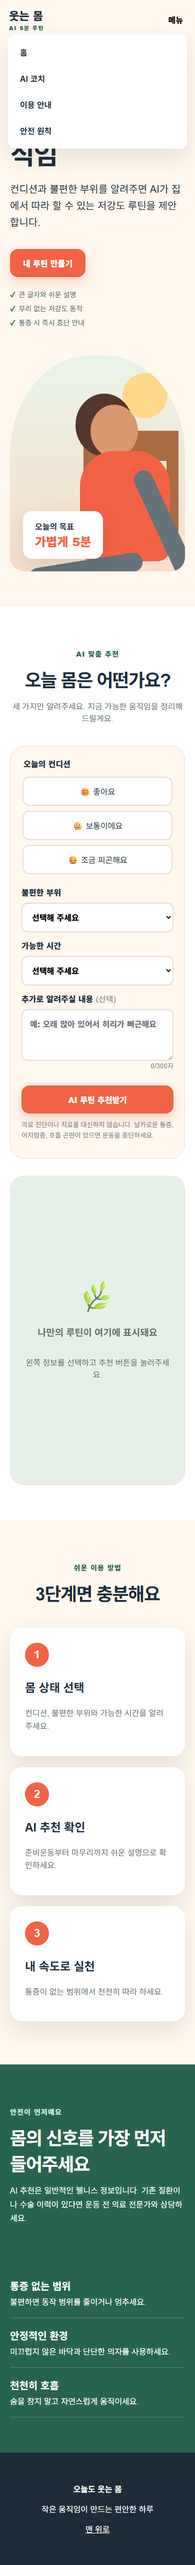
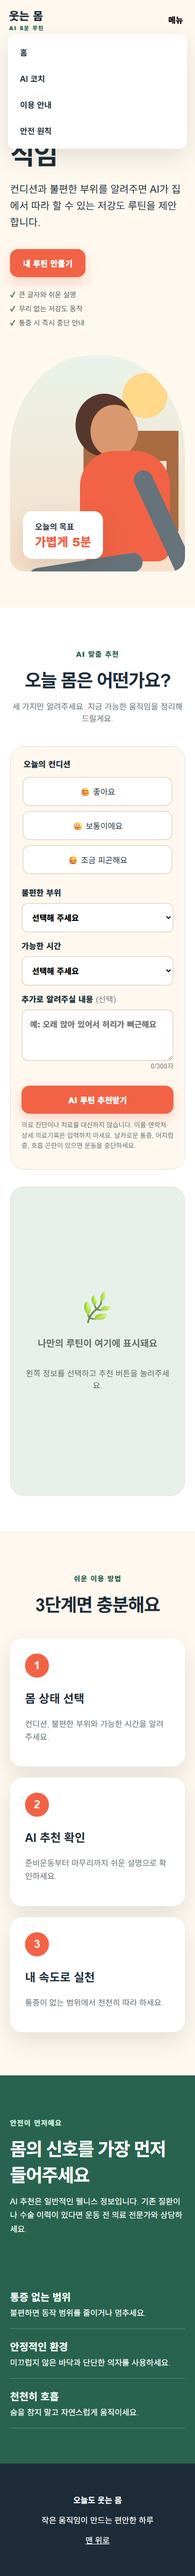
Switch AI routine generation to Gemini free tier

diff --git a/index.html b/index.html
@@ -46,7 +46,7 @@
           <label class="field">가능한 시간<select name="minutes" required><option value="">선택해 주세요</option><option value="3">3분</option><option value="5">5분</option><option value="10">10분</option></select></label>
           <label class="field">추가로 알려주실 내용 <span>(선택)</span><textarea name="note" maxlength="300" rows="3" placeholder="예: 오래 앉아 있어서 허리가 뻐근해요"></textarea><small><span id="char-count">0</span>/300자</small></label>
           <button class="button submit" type="submit">AI 루틴 추천받기</button>
-          <p class="form-note">의료 진단이나 치료를 대신하지 않습니다. 날카로운 통증, 어지럼증, 호흡 곤란이 있으면 운동을 중단하세요.</p>
+          <p class="form-note">의료 진단이나 치료를 대신하지 않습니다. 이름·연락처·상세 의료기록은 입력하지 마세요. 날카로운 통증, 어지럼증, 호흡 곤란이 있으면 운동을 중단하세요.</p>
         </form>
 
         <article class="result-card" id="result" aria-live="polite" aria-busy="false">
@@ -70,4 +70,3 @@
   <div class="toast" id="toast" role="status" aria-live="polite"></div>
 </body>
 </html>
-

diff --git a/api/routine.py b/api/routine.py
@@ -32,7 +32,7 @@ class handler(BaseHTTPRequestHandler):
             if condition not in ALLOWED_CONDITIONS or area not in ALLOWED_AREAS or minutes not in ALLOWED_MINUTES:
                 return self._json(400, {"error": "필수 항목을 올바르게 선택해 주세요."})
 
-            api_key = os.environ.get("OPENAI_API_KEY")
+            api_key = os.environ.get("GEMINI_API_KEY")
             if not api_key:
                 return self._json(503, {"error": "AI 서비스 설정을 확인 중입니다. 잠시 후 다시 시도해 주세요."})
 
@@ -45,27 +45,29 @@ class handler(BaseHTTPRequestHandler):
                 }, "required": ["title", "summary", "steps", "safety"], "additionalProperties": False
             }
             prompt = f"컨디션: {condition}, 불편한 부위: {area}, 가능 시간: {minutes}분, 추가 메모: {note or '없음'}"
+            system = "당신은 50대 여성을 위한 안전 중심 웰니스 운동 안내자입니다. 의료 진단이나 치료를 주장하지 말고, 통증 없는 범위의 의자 기반 저강도 동작을 쉬운 한국어로 제안하세요. 날카로운 통증, 어지럼증, 호흡곤란 시 즉시 중단 안내를 포함하세요."
             payload = {
-                "model": "gpt-4o-mini",
-                "messages": [
-                    {"role": "system", "content": "당신은 50대 여성을 위한 안전 중심 웰니스 운동 안내자입니다. 의료 진단이나 치료를 주장하지 말고, 통증 없는 범위의 의자 기반 저강도 동작을 쉬운 한국어로 제안하세요. 날카로운 통증, 어지럼증, 호흡곤란 시 즉시 중단 안내를 포함하세요."},
-                    {"role": "user", "content": prompt}
-                ],
-                "response_format": {"type": "json_schema", "json_schema": {"name": "routine", "strict": True, "schema": schema}},
-                "temperature": 0.5
+                "system_instruction": {"parts": [{"text": system}]},
+                "contents": [{"role": "user", "parts": [{"text": prompt}]}],
+                "generationConfig": {
+                    "responseMimeType": "application/json",
+                    "responseJsonSchema": schema,
+                    "temperature": 0.5,
+                    "maxOutputTokens": 1200
+                }
             }
-            request = urllib.request.Request("https://api.openai.com/v1/chat/completions", data=json.dumps(payload).encode(), headers={"Authorization": f"Bearer {api_key}", "Content-Type": "application/json"}, method="POST")
+            url = "https://generativelanguage.googleapis.com/v1beta/models/gemini-2.5-flash-lite:generateContent"
+            request = urllib.request.Request(url, data=json.dumps(payload).encode(), headers={"x-goog-api-key": api_key, "Content-Type": "application/json"}, method="POST")
             with urllib.request.urlopen(request, timeout=15) as response:
                 ai_data = json.loads(response.read())
-            routine = json.loads(ai_data["choices"][0]["message"]["content"])
+            routine = json.loads(ai_data["candidates"][0]["content"]["parts"][0]["text"])
             return self._json(200, routine)
         except (ValueError, json.JSONDecodeError):
             return self._json(400, {"error": "입력 형식을 확인해 주세요."})
         except urllib.error.HTTPError as error:
-            message = "AI 요청 한도를 확인하거나 잠시 후 다시 시도해 주세요." if error.code in (429, 500, 502, 503) else "AI 요청을 처리하지 못했습니다."
+            message = "무료 AI 요청 한도를 확인하거나 잠시 후 다시 시도해 주세요." if error.code in (429, 500, 502, 503) else "AI 요청을 처리하지 못했습니다."
             return self._json(502, {"error": message})
         except TimeoutError:
             return self._json(504, {"error": "AI 응답이 늦어 요청을 중단했습니다."})
         except Exception:
             return self._json(500, {"error": "예상하지 못한 오류가 발생했습니다. 잠시 후 다시 시도해 주세요."})
-

diff --git a/scripts/test_api.py b/scripts/test_api.py
@@ -21,7 +21,7 @@ def call(payload, api_key=None):
     instance.send_header = lambda *_: None
     instance.end_headers = lambda: None
     instance.wfile = io.BytesIO()
-    env = {"OPENAI_API_KEY": api_key} if api_key else {}
+    env = {"GEMINI_API_KEY": api_key} if api_key else {}
     with mock.patch.dict(os.environ, env, clear=True):
         instance.do_POST()
     captured["body"] = json.loads(instance.wfile.getvalue())
@@ -33,4 +33,3 @@ assert invalid["status"] == 400
 missing_key = call({"condition": "보통", "area": "무릎", "minutes": 5})
 assert missing_key["status"] == 503
 print("통과: 잘못된 입력 400 + API 키 누락 503")
-

diff --git a/README.md b/README.md
@@ -12,7 +12,7 @@
 
 - 홈, AI 코치, 이용 안내, 안전 원칙 4개 섹션과 메뉴 이동
 - 모바일·태블릿·데스크톱 반응형 레이아웃
-- OpenAI API 기반 맞춤 루틴 생성
+- Gemini API 무료 등급 기반 맞춤 루틴 생성
 - 빈 입력, API 오류, 타임아웃 사용자 안내
 - 의료 진단 배제와 안전 중단 기준
 
@@ -20,7 +20,7 @@
 
 - Frontend: HTML, CSS, Vanilla JavaScript
 - Backend: Vercel Serverless Functions, Python 3.12
-- AI: OpenAI Chat Completions API
+- AI: Google Gemini API (`gemini-2.5-flash-lite`)
 - Deploy: Vercel
 
 ## 구조
@@ -47,7 +47,7 @@ API 키는 코드에 저장하지 않습니다. 로컬 `.env.local` 또는 Verce
 다음 값을 등록합니다.
 
 ```text
-OPENAI_API_KEY=발급받은_API_키
+GEMINI_API_KEY=발급받은_Gemini_API_키
 ```
 
 `.env*` 파일은 Git에 커밋하지 않습니다. 키 노출이 의심되면 즉시 폐기하고 새 키를
@@ -68,7 +68,7 @@ Vercel 개발 서버에서 확인해야 합니다.
 
 1. GitHub 저장소에 프로젝트를 푸시합니다.
 2. Vercel에서 저장소를 Import합니다.
-3. Environment Variables에 `OPENAI_API_KEY`를 등록합니다.
+3. Environment Variables에 `GEMINI_API_KEY`를 등록합니다.
 4. Deploy 후 공개 URL에서 메뉴, 반응형, 정상·오류 입력을 확인합니다.
 
 ## 동작 흐름 설명
@@ -76,7 +76,7 @@ Vercel 개발 서버에서 확인해야 합니다.
 - HTML은 입력 폼과 결과 영역의 구조를 정의합니다.
 - CSS는 색상, 배치와 화면 크기별 반응형 표현을 담당합니다.
 - JavaScript는 입력을 검증하고 `fetch('/api/routine')` 요청을 보낸 뒤 응답을 화면에 반영합니다.
-- `api/routine.py`는 요청을 검증하고 서버의 환경 변수로 OpenAI API를 호출하는 Vercel Serverless Function입니다.
+- `api/routine.py`는 요청을 검증하고 서버의 환경 변수로 Gemini API를 호출하는 Vercel Serverless Function입니다.
 - 로컬과 배포 환경은 URL·환경 변수·실행 런타임이 다르므로 배포 후 동일 테스트를 다시 수행합니다.
 
 ## 문서

diff --git a/docs/ai-coding-log.md b/docs/ai-coding-log.md
@@ -16,7 +16,7 @@ A1-3 요구사항을 만족하는 50대 여성 대상 AI 5분 운동 추천 웹 
 ## 생성 후 검토·수정 기준
 
 - 프론트와 `api/` 백엔드 구조 분리
-- API 키를 `OPENAI_API_KEY` 환경 변수로만 읽음
+- API 키를 `GEMINI_API_KEY` 환경 변수로만 읽음
 - 허용 입력값 검증과 길이 제한 적용
 - AI 출력은 JSON Schema로 제한하고 화면 출력 시 HTML 이스케이프 적용
 - 의료 진단 표현을 금지하고 운동 중단 기준을 표시
@@ -28,7 +28,7 @@ A1-3 요구사항을 만족하는 50대 여성 대상 AI 5분 운동 추천 웹 
 
 1. 필수값 누락: 프론트에서 요청 전 차단
 2. API 키 누락: 서버에서 503과 사용자용 메시지 반환
-3. 외부 API 과금·한도 오류: 502로 변환해 키나 내부 정보를 노출하지 않음
+3. 외부 API 무료 한도 오류: 502로 변환해 키나 내부 정보를 노출하지 않음
 4. 응답 지연: 브라우저 20초, 서버 15초 타임아웃 적용
 
 ## 배포 오류와 수정 기록
@@ -44,3 +44,10 @@ A1-3 요구사항을 만족하는 50대 여성 대상 AI 5분 운동 추천 웹 
 
 이 과정으로 오류 메시지의 핵심 원인을 확인하고, 코드 구조를 바꾸기보다 배포 환경의
 잘못된 자동 감지 설정을 수정하는 대응 흐름을 기록했습니다.
+
+## 결제 없는 AI API 전환
+
+OpenAI API 키는 정상 등록했지만 계정 크레딧이 없어 실제 요청이 한도 오류로
+거절되었습니다. 과제 진행 중 결제를 피하기 위해 Gemini API 무료 등급으로 전환했습니다.
+백엔드 환경 변수는 `GEMINI_API_KEY`, 모델은 안정 버전인
+`gemini-2.5-flash-lite`를 사용하고 JSON Schema 기반 구조화 출력을 유지했습니다.

diff --git a/docs/submission-checklist.md b/docs/submission-checklist.md
@@ -16,7 +16,7 @@
 - [x] `fetch('/api/routine')` 입력 → 요청 → 결과 렌더링
 - [x] 모바일 390px·데스크톱 1440px 반응형 검증
 - [x] 빈 입력, API 오류, 20초 타임아웃 안내
-- [x] API 키를 `OPENAI_API_KEY` 환경 변수로만 사용
+- [x] API 키를 `GEMINI_API_KEY` 환경 변수로만 사용
 - [x] 의료 진단 배제와 운동 중단 안전 기준 표시
 
 ## 자동 검증 결과
@@ -27,7 +27,7 @@
 - [x] API 키 누락 503 응답
 - [x] 데스크톱·모바일·빈 입력·AI 결과 렌더링 브라우저 테스트
 - [x] Vercel Production 배포 상태 Ready 및 메인 화면 확인
-- [ ] Vercel `OPENAI_API_KEY` 저장 후 실제 OpenAI 응답 확인
+- [ ] Vercel `GEMINI_API_KEY` 저장 후 실제 Gemini 응답 확인
 - [x] 최신 로컬 커밋을 GitHub `main`에 push
 
 마지막 미완료 항목은 실제 API 키 입력이 필요한 단계입니다. 완료 후 체크하고

diff --git a/docs/service-plan.md b/docs/service-plan.md
@@ -28,7 +28,9 @@
 | 지연 | 20초 후 요청 중단 및 재시도 안내 |
 | 안전 | 의료 진단 배제, 통증·어지럼증·호흡곤란 시 중단 안내 |
 
+무료 Gemini API 사용 시 이름, 연락처, 상세 의료기록 등 개인정보를 입력하지 않도록
+안내하며, 무료 사용 한도를 초과하면 재시도 메시지를 표시합니다.
+
 ## 데이터 흐름
 
 `사용자 입력 → JavaScript 검증 → fetch('/api/routine') → Python 함수 → OpenAI API → JSON 결과 → DOM 렌더링`
-
